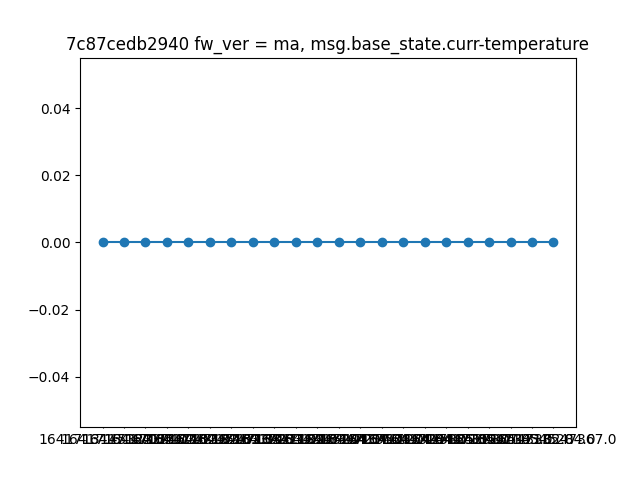
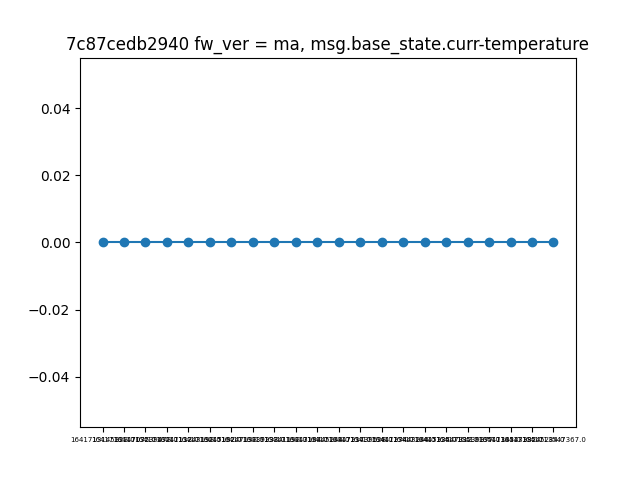
add

Changed region(s): [[0.0625, 0.9062, 0.9688, 0.9375]]

diff --git a/json_convert_to_csv/sender_info.py b/json_convert_to_csv/sender_info.py
@@ -55,11 +55,19 @@ def save_f(_topic, _data_list, _device):
     x_list.pop(0)
     y_list.pop(0)
 
-    print(type(y_list[4]))
+#    val = len(x_list)
+#    if (val % 2) == 0:
+#        i = 0
+#        for i <= 4:
+#            
+#    else:
+
+
+    print(x_list)
 
     pyplot.scatter(x_list, y_list)
     pyplot.plot(x_list, y_list)
-    pyplot.tick_params(axis='x', length=1)
+    pyplot.tick_params(axis='x', labelsize=5)
     pyplot.title('7c87cedb2940 fw_ver = ma, msg.base_state.curr-temperature')
     pyplot.show()
     pyplot.savefig('data.png')
